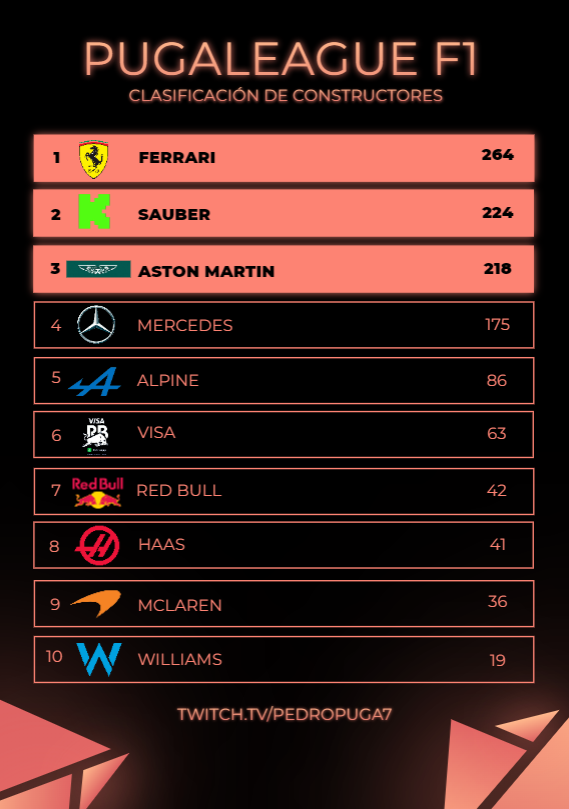
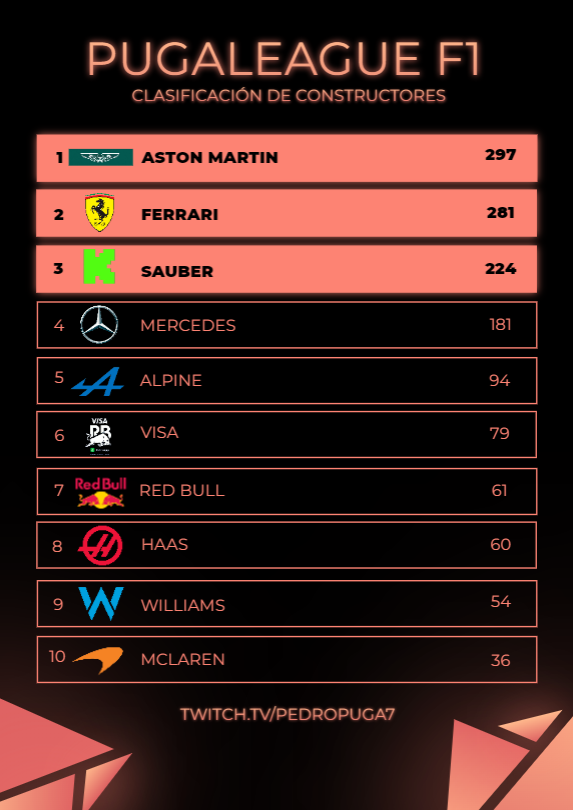
Add files via upload

diff --git a/pilotos.html b/pilotos.html
@@ -140,7 +140,7 @@
     </header>
     <div class="container">
         <section class="section mercedes">
-            <h2>Mercedes - P4 (175)</h2>
+            <h2>Mercedes - P4 (181)</h2>
             <div class="section-content">
                 <div class="pilot">
                     <img src="angel.png" alt="Foto de Byangel">
@@ -168,8 +168,8 @@
                             <p><strong>Equipo:</strong> Mercedes</p>
                             <p><strong>País:</strong> España</p>
                             <p><strong>Podios:</strong> 1</p>
-                            <p><strong>Puntos:</strong> 33</p>
-                            <p><strong>Grandes Premios:</strong> 8</p>
+                            <p><strong>Puntos:</strong> 39</p>
+                            <p><strong>Grandes Premios:</strong> 11</p>
                             <p><strong>Campeonatos Mundiales:</strong> 0</p>
                             <p><strong>Mejor resultado de carrera:</strong> p3 (x1)</p>
                             <p><strong>Mejor posición en parrilla:</strong> p2</p>
@@ -180,7 +180,7 @@
         </section>
 
         <section class="section sauber">
-            <h2>Sauber - P2 (206)</h2>
+            <h2>Sauber - P3 (224)</h2>
             <div class="section-content">
                 <div class="pilot">
                     <img src="odracir.png" alt="Foto de Odracir">
@@ -192,7 +192,7 @@
                             <p><strong>País:</strong> España</p>
                             <p><strong>Podios:</strong> 7</p>
                             <p><strong>Puntos:</strong> 152</p>
-                            <p><strong>Grandes Premios:</strong> 10</p>
+                            <p><strong>Grandes Premios:</strong> 11</p>
                             <p><strong>Campeonatos Mundiales:</strong> 0 </p>
                             <p><strong>Mejor resultado de carrera:</strong> p1 (x4)</p>
                             <p><strong>Mejor posición en parrilla:</strong> p1 (x1)</p>
@@ -208,11 +208,11 @@
                             <p><strong>Equipo:</strong> Sauber</p>
                             <p><strong>País:</strong> España</p>
                             <p><strong>Podios:</strong> 0</p>
-                            <p><strong>Puntos:</strong> 44</p>
+                            <p><strong>Puntos:</strong> 72</p>
                             <p><strong>Grandes Premios:</strong> 7</p>
                             <p><strong>Campeonatos Mundiales:</strong> 0</p>
-                            <p><strong>Mejor resultado de carrera:</strong> p5 (x1)</p>
-                            <p><strong>Mejor posición en parrilla:</strong> p14 (x1)</p>
+                            <p><strong>Mejor resultado de carrera:</strong> p2 (x1)</p>
+                            <p><strong>Mejor posición en parrilla:</strong> p2 (x1)</p>
                         </div>
                     </details>
                 </div>
@@ -220,7 +220,7 @@
         </section>
 
     <section class="section ferrari">
-        <h2>Ferrari - P1 (237)</h2>
+        <h2>Ferrari - P2 (281)</h2>
         <div class="section-content">
             <div class="pilot">
                 <img src="crazy.png" alt="Foto de Sergio Crazy">
@@ -231,11 +231,11 @@
                         <p><strong>Equipo:</strong> Ferrari</p>
                         <p><strong>País:</strong> España</p>
                         <p><strong>Podios:</strong> 2</p>
-                        <p><strong>Puntos:</strong> 112</p>
-                        <p><strong>Grandes Premios:</strong> 10</p>
+                        <p><strong>Puntos:</strong> 142</p>
+                        <p><strong>Grandes Premios:</strong> 13</p>
                         <p><strong>Campeonatos Mundiales:</strong> 0</p>
-                        <p><strong>Mejor resultado de carrera:</strong> p3 (x1)</p>
-                        <p><strong>Mejor posición en parrilla:</strong> p4 (x1)</p>
+                        <p><strong>Mejor resultado de carrera:</strong> p2 (x4)</p>
+                        <p><strong>Mejor posición en parrilla:</strong> p2 (x3)</p>
                     </div>
                 </details>
             </div>
@@ -247,9 +247,9 @@
                     <div class="info">
                         <p><strong>Equipo:</strong> Ferrari</p>
                         <p><strong>País:</strong> España</p>
-                        <p><strong>Podios:</strong> 3</p>
-                        <p><strong>Puntos:</strong> 125</p>
-                        <p><strong>Grandes Premios:</strong> 10</p>
+                        <p><strong>Podios:</strong> 4</p>
+                        <p><strong>Puntos:</strong> 139</p>
+                        <p><strong>Grandes Premios:</strong> 13</p>
                         <p><strong>Campeonatos Mundiales:</strong> 0</p>
                         <p><strong>Mejor resultado de carrera:</strong> p2 (x2)</p>
                         <p><strong>Mejor posición en parrilla:</strong> p1 (x2)</p>
@@ -260,7 +260,7 @@
     </section>
 
     <section class="section astonmartin">
-        <h2>Aston Martin - P3 (182)</h2>
+        <h2>Aston Martin - P1 (297)</h2>
         <div class="section-content">
             <div class="pilot">
                 <img src="tomas.png" alt="Foto de Ttvlibra">
@@ -271,8 +271,8 @@
                         <p><strong>Equipo:</strong> Aston Martin</p>
                         <p><strong>País:</strong> España</p>
                         <p><strong>Podios:</strong> 3</p>
-                        <p><strong>Puntos:</strong> 83</p>
-                        <p><strong>Grandes Premios:</strong> 9</p>
+                        <p><strong>Puntos:</strong> 137</p>
+                        <p><strong>Grandes Premios:</strong> 12</p>
                         <p><strong>Campeonatos Mundiales:</strong> 0</p>
                         <p><strong>Mejor resultado de carrera:</strong> p1 (x1)</p>
                         <p><strong>Mejor posición en parrilla:</strong> p1 (x1)</p>
@@ -288,11 +288,11 @@
                         <p><strong>Equipo:</strong> Aston Martin</p>
                         <p><strong>País:</strong> España</p>
                         <p><strong>Podios:</strong> 3 </p>
-                        <p><strong>Puntos:</strong> 99</p>
-                        <p><strong>Grandes Premios:</strong> 10</p>
+                        <p><strong>Puntos:</strong> 160</p>
+                        <p><strong>Grandes Premios:</strong> 13</p>
                         <p><strong>Campeonatos Mundiales:</strong> 0</p>
-                        <p><strong>Mejor resultado de carrera:</strong> p1 (x1)</p>
-                        <p><strong>Mejor posición en parrilla:</strong> p1 (x2)</p>
+                        <p><strong>Mejor resultado de carrera:</strong> p1 (x3)</p>
+                        <p><strong>Mejor posición en parrilla:</strong> p1 (x5)</p>
                     </div>
                 </details>
             </div>
@@ -300,7 +300,7 @@
     </section>
 
     <section class="section alpine">
-        <h2>Alpine - P5 (77)</h2>
+        <h2>Alpine - P5 (94)</h2>
         <div class="section-content">
             <div class="pilot">
                 <img src="teteriki.png" alt="Foto de Teteriki">
@@ -311,16 +311,16 @@
                         <p><strong>Equipo:</strong> Alpine</p>
                         <p><strong>País:</strong> España</p>
                         <p><strong>Podios:</strong> 0</p>
-                        <p><strong>Puntos:</strong> 53</p>
-                        <p><strong>Grandes Premios:</strong> 10</p>
+                        <p><strong>Puntos:</strong> 70</p>
+                        <p><strong>Grandes Premios:</strong> 11</p>
                         <p><strong>Campeonatos Mundiales:</strong> 0</p>
-                        <p><strong>Mejor resultado de carrera:</strong> p7 (x1)</p>
-                        <p><strong>Mejor posición en parrilla:</strong> p11 (x2)</p>
+                        <p><strong>Mejor resultado de carrera:</strong> p5 (x1)</p>
+                        <p><strong>Mejor posición en parrilla:</strong> p5 (x1)</p>
                     </div>
                 </details>
             </div>
             <div class="pilot">
-                <img src="lamas.png" alt="Foto de Aitor">
+                <img src="lamas.png" alt="Foto de Lamas">
                 <p><strong>Lamas</strong></p>
                 <details>
                     <summary>Información adicional</summary>
@@ -329,7 +329,7 @@
                         <p><strong>País:</strong> España</p>
                         <p><strong>Podios:</strong> 1</p>
                         <p><strong>Puntos:</strong> 15</p>
-                        <p><strong>Grandes Premios:</strong> 1</p>
+                        <p><strong>Grandes Premios:</strong> 2</p>
                         <p><strong>Campeonatos Mundiales:</strong> 0</p>
                         <p><strong>Mejor resultado de carrera:</strong> p3 (x1)</p>
                         <p><strong>Mejor posición en parrilla:</strong> p2 (x1)</p>
@@ -340,7 +340,7 @@
     </section>
 
     <section class="section rb">
-        <h2>Visa Cash App RB - P6 (57)</h2>
+        <h2>Visa Cash App RB - P6 (79)</h2>
         <div class="section-content">
             <div class="pilot">
                 <img src="lopez.png" alt="Foto de Lopez">
@@ -351,8 +351,8 @@
                         <p><strong>Equipo:</strong> Visa Cash App RB</p>
                         <p><strong>País:</strong> España</p>
                         <p><strong>Podios:</strong> 0</p>
-                        <p><strong>Puntos:</strong> 29</p>
-                        <p><strong>Grandes Premios:</strong> 9</p>
+                        <p><strong>Puntos:</strong> 37</p>
+                        <p><strong>Grandes Premios:</strong> 10</p>
                         <p><strong>Campeonatos Mundiales:</strong> 0</p>
                         <p><strong>Mejor resultado de carrera:</strong> P6 (x1)</p>
                         <p><strong>Mejor posición en parrilla:</strong> p6 (x1)</p>
@@ -368,10 +368,10 @@
                         <p><strong>Equipo:</strong> Visa Cash App RB</p>
                         <p><strong>País:</strong> Cuba</p>
                         <p><strong>Podios:</strong> 0</p>
-                        <p><strong>Puntos:</strong> 28</p>
+                        <p><strong>Puntos:</strong> 42</p>
                         <p><strong>Grandes Premios:</strong> 10</p>
                         <p><strong>Campeonatos Mundiales:</strong> 0</p>
-                        <p><strong>Mejor resultado de carrera:</strong> p6 (x1)</p>
+                        <p><strong>Mejor resultado de carrera:</strong> p4 (x1)</p>
                         <p><strong>Mejor posición en parrilla:</strong> p14 (x1)</p>
                     </div>
                 </details>
@@ -380,7 +380,7 @@
     </section>
     
     <section class="section mclaren">
-        <h2>McLaren - P9 (36 puntos)</h2>
+        <h2>McLaren - P10 (36 puntos)</h2>
         <div class="section-content">
             <div class="pilot">
                 <img src="guti.png" alt="Foto de Guti">
@@ -394,8 +394,8 @@
                         <p><strong>Puntos:</strong> 23</p>
                         <p><strong>Grandes Premios:</strong> 7</p>
                         <p><strong>Campeonatos Mundiales:</strong> 0</p>
-                        <p><strong>Mejor resultado de carrera:</strong> 0</p>
-                        <p><strong>Mejor posición en parrilla:</strong> 0</p>
+                        <p><strong>Mejor resultado de carrera:</strong> p6(x2)</p>
+                        <p><strong>Mejor posición en parrilla:</strong> p8(x3)</p>
                     </div>
                 </details>
             </div>
@@ -420,7 +420,7 @@
     </section>
     
     <section class="section redbull">
-        <h2>Red Bull - P8 (36)</h2>
+        <h2>Red Bull - P7 (61)</h2>
         <div class="section-content">
             <div class="pilot">
                 <img src="jostrume.png" alt="Foto de Jostrume">
@@ -431,11 +431,11 @@
                         <p><strong>Equipo:</strong> Red Bull</p>
                         <p><strong>País:</strong> España</p>
                         <p><strong>Podios:</strong> 0</p>
-                        <p><strong>Puntos:</strong> 24</p>
-                        <p><strong>Grandes Premios:</strong> 10</p>
+                        <p><strong>Puntos:</strong> 43</p>
+                        <p><strong>Grandes Premios:</strong> 12</p>
                         <p><strong>Campeonatos Mundiales:</strong> 0</p>
-                        <p><strong>Mejor resultado de carrera:</strong> p7 (x2)</p>
-                        <p><strong>Mejor posición en parrilla:</strong> p8 (x3)</p>
+                        <p><strong>Mejor resultado de carrera:</strong> p4 (x2)</p>
+                        <p><strong>Mejor posición en parrilla:</strong> p6 (x3)</p>
                     </div>
                 </details>
             </div>
@@ -460,7 +460,7 @@
     </section>
     
     <section class="section haas">
-        <h2>Haas - P7 (41)</h2>
+        <h2>Haas - P8 (60)</h2>
         <div class="section-content">
             <div class="pilot">
                 <img src="javi.png" alt="Foto de Javierurba">
@@ -471,8 +471,8 @@
                         <p><strong>Equipo:</strong> Haas</p>
                         <p><strong>País:</strong> España</p>
                         <p><strong>Podios:</strong> 0</p>
-                        <p><strong>Puntos:</strong> 21</p>
-                        <p><strong>Grandes Premios:</strong> 1</p>
+                        <p><strong>Puntos:</strong> 22</p>
+                        <p><strong>Grandes Premios:</strong> 3</p>
                         <p><strong>Campeonatos Mundiales:</strong> 0</p>
                         <p><strong>Mejor resultado de carrera:</strong> p9 (x1)</p>
                         <p><strong>Mejor posición en parrilla:</strong> p13 (x1)</p>
@@ -488,11 +488,11 @@
                         <p><strong>Equipo:</strong> Haas</p>
                         <p><strong>País:</strong> España</p>
                         <p><strong>Podios:</strong> 0</p>
-                        <p><strong>Puntos:</strong> 8</p>
-                        <p><strong>Grandes Premios:</strong> 5</p>
+                        <p><strong>Puntos:</strong> 26</p>
+                        <p><strong>Grandes Premios:</strong> 7</p>
                         <p><strong>Campeonatos Mundiales:</strong> 0</p>
-                        <p><strong>Mejor resultado de carrera:</strong> p7 (x1)</p>
-                        <p><strong>Mejor posición en parrilla:</strong> p9 (x1)</p>
+                        <p><strong>Mejor resultado de carrera:</strong> p4 (x1)</p>
+                        <p><strong>Mejor posición en parrilla:</strong> p5 (x1)</p>
                     </div>
                 </details>
             </div>
@@ -503,18 +503,18 @@
         <h2>Williams - P10 (18)</h2>
         <div class="section-content">
             <div class="pilot">
-                <img src="foto.png" alt="Foto de Petesupremo">
+                <img src="mipecho.png" alt="Foto de Petesupremo">
                 <p><strong>Petesupremo</strong></p>
                 <details>
                     <summary>Información adicional</summary>
                     <div class="info">
                         <p><strong>Equipo:</strong> Williams</p>
                         <p><strong>País:</strong> España</p>
-                        <p><strong>Podios:</strong> 0</p>
-                        <p><strong>Puntos:</strong> 16</p>
-                        <p><strong>Grandes Premios:</strong> 4</p>
+                        <p><strong>Podios:</strong> 1</p>
+                        <p><strong>Puntos:</strong> 36</p>
+                        <p><strong>Grandes Premios:</strong> 6</p>
                         <p><strong>Campeonatos Mundiales:</strong> 0</p>
-                        <p><strong>Mejor resultado de carrera:</strong> p6 (x2)</p>
+                        <p><strong>Mejor resultado de carrera:</strong> p3 (x1)</p>
                         <p><strong>Mejor posición en parrilla:</strong> p7 (x1)</p>
                     </div>
                 </details>
@@ -576,6 +576,25 @@
                         <p><strong>Mejor posición en parrilla:</strong> 0</p>
                     </div>
                 </details>
+                </div>
+                <section class="section reservations"></section>
+                <div class="pilot">
+                    <img src="foto.png" alt="Foto de Reserva 2">
+                    <p><strong>Tejerinho</strong></p>
+                    <details>
+                        <summary>Información adicional</summary>
+                        <div class="info">
+                            <p><strong>Equipo:</strong> Reservas</p>
+                            <p><strong>País:</strong> España</p>
+                            <p><strong>Podios:</strong> 1</p>
+                            <p><strong>Puntos:</strong> 16</p>
+                            <p><strong>Grandes Premios:</strong> 1</p>
+                            <p><strong>Campeonatos Mundiales:</strong> 0</p>
+                            <p><strong>Mejor resultado de carrera:</strong> p14 (1)</p>
+                            <p><strong>Mejor posición en parrilla:</strong> p3 (x1)</p>
+                        </div>
+                    </details>
+                </div>
             </div>
         </div>
     </section>

diff --git a/index.html b/index.html
@@ -102,9 +102,9 @@
             <h2>Próximos Eventos</h2>
             <div class="section-content">
                 <div class="event">
-                    <h3>Gran premio de Austria</h3>
-                    <p>Fecha: 14 de julio, 2024</p>
-                    <p>Lugar: Red Bull Ring</p>
+                    <h3>Dutch Grand Prix</h3>
+                    <p>Fecha: 25 de Agosto, 2024</p>
+                    <p>Lugar: Circuit Zandvoort</p>
                     <p><a href="https://www.twitch.tv/pedropuga7" target="_blank" style="display: inline-block; background-color: #6441a5; color: #ffffff; padding: 10px 20px; border-radius: 5px; text-decoration: none; font-weight: bold;">¡Ver Carrera en Vivo!</a></p>
                 </div>
                 <div class="countdown" id="countdown"></div>
@@ -154,7 +154,7 @@
         startAutoSlide();
 
         // Contador
-        const countdownDate = new Date('July 14, 2024 11:00:00').getTime();
+        const countdownDate = new Date('August 25, 2024 11:00:00').getTime();
         const countdown = document.getElementById('countdown');
         const updateCountdown = () => {
             const now = new Date().getTime();
